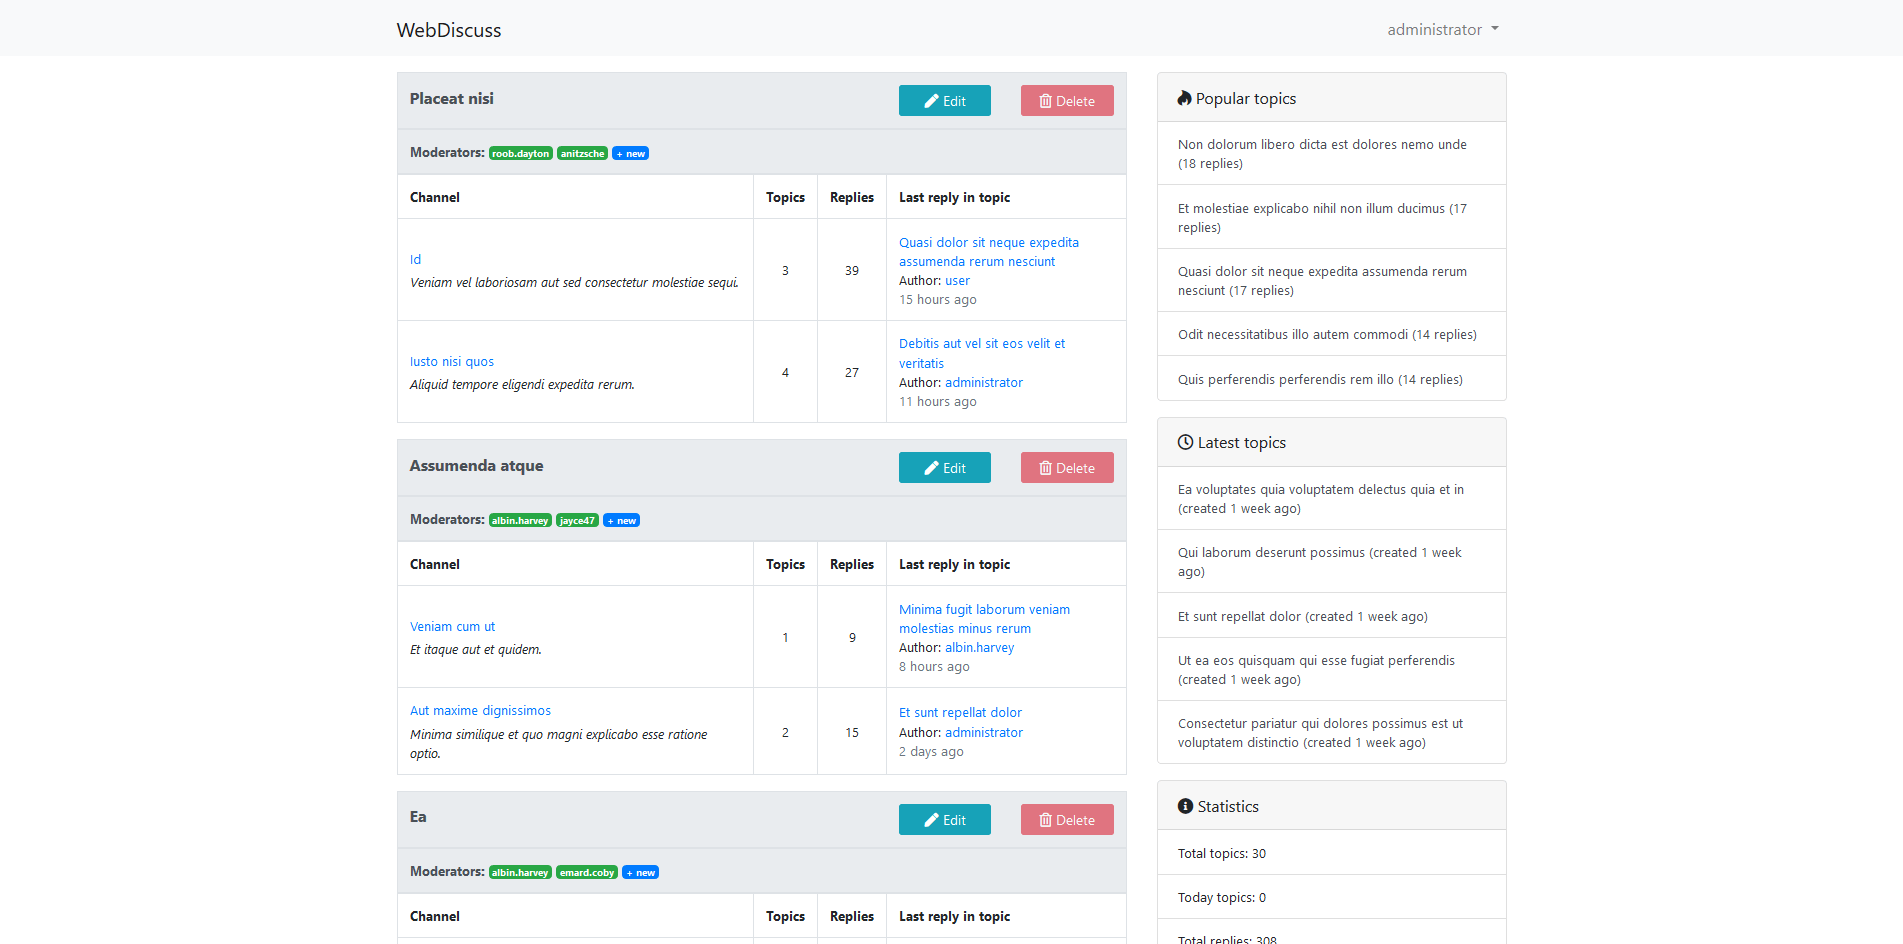
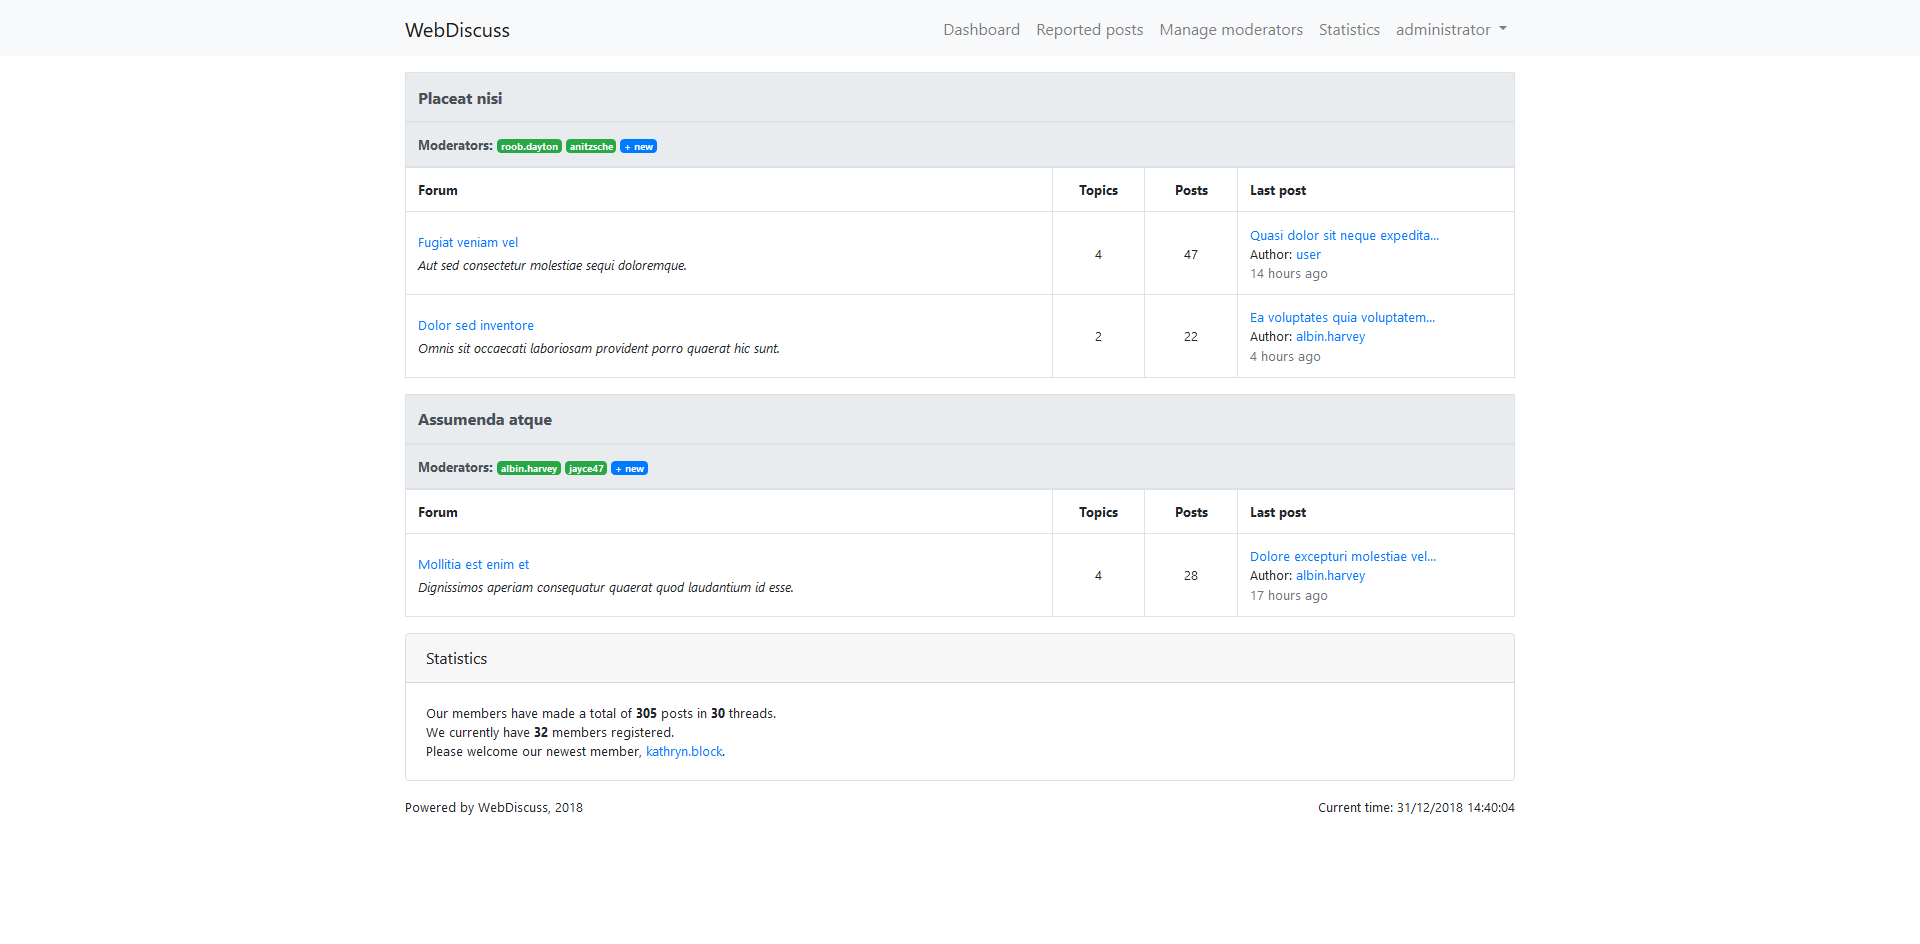
Homepage and stats improvements.

diff --git a/resources/views/categories/index.blade.php b/resources/views/categories/index.blade.php
@@ -2,22 +2,18 @@
 
 @section('content')
     <div class="row">
-        <div class="col-8">
+        <div class="col-12">
             @foreach ($categories as $category)
                 <table class="table table-bordered">
                     <thead class="thead-light">
                         <tr>
-                            <th colspan="4">
-                                {{ $category->name }}
-                            </th>
+                            <th colspan="4">{{ $category->name }}</th>
                         </tr>
                         <tr class="small">
                             <th colspan="4">
                                 Moderators:
                                 @foreach ($category->users as $user)
-                                    <a class="badge badge-success" href="{{ route('users.show', $user) }}">
-                                        {{ $user->name }}
-                                    </a>
+                                    <a class="badge badge-success" href="{{ route('users.show', $user) }}">{{ $user->name }}</a>
                                 @endforeach
                                 @hasrole('administrator')
                                     <a class="badge badge-primary" href="{{ route('moderators.create', $category) }}">+ new</a>
@@ -26,11 +22,11 @@
                         </tr>
                     </thead>
                     <tbody>
-                        <tr class="font-weight-bold small">
-                            <td class="col-6">Forum</td>
-                            <td class="col-1">Topics</td>
-                            <td class="col-1">Replies</td>
-                            <td class="col-4">Last reply in topic</td>
+                        <tr class="small">
+                            <th class="col-7">Forum</th>
+                            <th class="col-1 text-center">Topics</th>
+                            <th class="col-1 text-center">Posts</th>
+                            <th class="col-3">Last post</th>
                         </tr>
                         @if ($category->forums->isEmpty())
                             <tr class="small">
@@ -41,8 +37,9 @@
                                 <tr class="small">
                                     <td class="align-middle">
                                         <a href="{{ route('forums.show', $forum) }}">{{ $forum->name }}</a>
+
                                         @if ($forum->description)
-                                            <p class="mt-1 mb-0 font-italic">{{ $forum->description }}</p>
+                                            <div class="mt-1 font-italic">{{ $forum->description }}</div>
                                         @endif
                                     </td>
                                     <td class="text-center align-middle">{{ $forum->topics_count }}</td>
@@ -52,14 +49,21 @@
                                             —
                                         @else
                                             <div class="d-block">
-                                                <a href="{{ route('topics.show', $forum->replies->first()->topic) }}">{{ $forum->replies->first()->topic->title }}</a>
+                                                <a href="{{ route('topics.show', $forum->replies->first()->topic) }}">
+                                                    {{ str_limit($forum->replies->first()->topic->title, 30) }}
+                                                </a>
                                             </div>
                                             <div clas="d-block">
-                                                Author: <a href="{{ route('users.show', $forum->replies->first()->user) }}">{{ $forum->replies->first()->user->name }}</a>
+                                                Author:
+                                                <a href="{{ route('users.show', $forum->replies->first()->user) }}">
+                                                    {{ $forum->replies->first()->user->name }}
+                                                </a>
                                             </div>
                                             <div class="d-block">
                                                 <div class="text-muted">
-                                                    <time title="{{ $forum->replies->first()->created_at }}">{{ $forum->replies->first()->created_at->diffForHumans() }}</time>
+                                                    <time title="{{ $forum->replies->first()->created_at }}">
+                                                        {{ $forum->replies->first()->created_at->diffForHumans() }}
+                                                    </time>
                                                 </div>
                                             </div>
                                         @endif
@@ -70,65 +74,29 @@
                     </tbody>
                 </table>
             @endforeach
-        </div>
-        <div class="col-4">
+
             <div class="card mb-3">
-                <div class="card-header">
-                    <i class="fab fa-hotjar"></i> Popular topics
+                <div class="card-header">Statistics</div>
+                <div class="card-body small">
+                    <div class="d-block">
+                        Our members have made a total of <b>{{ number_format(cache('posts_count')) }}</b> posts in <b>{{ number_format(cache('topics_count')) }}</b> threads.
+                    </div>
+                    <div class="d-block">
+                        We currently have <b>{{ number_format(cache('users_count')) }}</b> members registered.
+                    </div>
+                    <div class="d-block">
+                        Please welcome our newest member, <a href="{{ route('users.show', cache('latest_user')) }}">{{ cache('latest_user')->name }}</a>.
+                    </div>
                 </div>
-                <ul class="list-group list-group-flush small">
-                    @foreach (cache('stats.popular_topics') as $topic)
-                        <a class="list-group-item list-group-item-action" href="{{ route('topics.show', $topic) }}">
-                            {{ $topic->title }} ({{ $topic->replies_count - 1 }} replies)
-                        </a>
-                    @endforeach
-                </ul>
             </div>
-            <div class="card mb-3">
-                <div class="card-header">
-                    <i class="far fa-clock"></i> Latest topics
+
+            <div class="d-flex justify-content-between small">
+                <div>
+                    Powered by WebDiscuss, 2018
                 </div>
-                <ul class="list-group list-group-flush small">
-                    @foreach (cache('stats.latest_topics') as $topic)
-                        <a class="list-group-item list-group-item-action" href="{{ route('topics.show', $topic) }}">
-                            {{ $topic->title }} (created <time title="{{ $topic->created_at }}">{{ $topic->created_at->diffForHumans() }}</time>)
-                        </a>
-                    @endforeach
-                </ul>
-            </div>
-            <div class="card">
-                <div class="card-header">
-                    <i class="fas fa-info-circle"></i> Statistics
+                <div>
+                    Current time: {{ date('d/m/Y H:i:s') }}
                 </div>
-                <ul class="list-group list-group-flush small">
-                    <li class="list-group-item">
-                        Total topics: {{ cache('stats.topics.total') }}
-                    </li>
-                    <li class="list-group-item">
-                        Today topics: {{ cache('stats.topics.today') }}
-                    </li>
-                    <li class="list-group-item">
-                        Total replies: {{ cache('stats.replies.total') }}
-                    </li>
-                    <li class="list-group-item">
-                        Today replies: {{ cache('stats.replies.today') }}
-                    </li>
-                    <li class="list-group-item">
-                        Total topics views: {{ cache('stats.topics.views') }}
-                    </li>
-                    <li class="list-group-item">
-                        Average age of users: {{ cache('stats.users.average_age') }}
-                    </li>
-                    <li class="list-group-item">
-                        Last registered: <a href="{{ route('users.show', cache('stats.users.last_registered')['slug']) }}">{{ cache('stats.users.last_registered')['name'] }}</a>
-                    </li>
-                    <li class="list-group-item">
-                        Last logged in: <a href="{{ route('users.show', cache('stats.users.last_logged_in')['slug']) }}">{{ cache('stats.users.last_logged_in')['name'] }}</a>
-                    </li>
-                    <li class="list-group-item">
-                        The most replies: {{ cache('stats.most_replies')['total'] }} were on: {{ cache('stats.most_replies')['date'] }}
-                    </li>
-                </ul>
             </div>
         </div>
     </div>

diff --git a/resources/views/partials/navbar.blade.php b/resources/views/partials/navbar.blade.php
@@ -16,6 +16,26 @@
                         <a class="nav-link" href="{{ route('register') }}">Register</a>
                     </li>
                 @else
+                    @hasrole('administrator|moderator')
+                        <li class="nav-item">
+                            <a class="nav-link" href="{{ route('dashboard.index') }}">Dashboard</a>
+                        </li>
+
+                        <li class="nav-item">
+                            <a class="nav-link" href="{{ route('report.index') }}">Reported posts</a>
+                        </li>
+                    @endhasrole
+
+                    @hasrole('administrator')
+                        <li class="nav-item">
+                            <a class="nav-link" href="{{ route('moderators.list') }}">Manage moderators</a>
+                        </li>
+                    @endhasrole
+
+                    <li class="nav-item">
+                        <a class="nav-link" href="{{ route('users.stats') }}">Statistics</a>
+                    </li>
+
                     <li class="nav-item dropdown">
                         <a id="navbarDropdown" class="nav-link dropdown-toggle" href="#" role="button" data-toggle="dropdown" aria-haspopup="true" aria-expanded="false">
                             {{ Auth::user()->name }} <span class="caret"></span>
@@ -24,22 +44,6 @@
                             <a class="dropdown-item" href="{{ route('users.show', Auth::user()) }}">
                                 My profile
                             </a>
-                            <a class="dropdown-item" href="{{ route('users.stats') }}">
-                                WebDiscuss statistics
-                            </a>
-                            @hasrole('administrator|moderator')
-                                <a class="dropdown-item" href="{{ route('dashboard.index') }}">
-                                    Dashboard
-                                </a>
-                                <a class="dropdown-item" href="{{ route('report.index') }}">
-                                    Reported posts
-                                </a>
-                            @endhasrole
-                            @hasrole('administrator')
-                                <a class="dropdown-item" href="{{ route('moderators.list') }}">
-                                    Manage moderators
-                                </a>
-                            @endhasrole
                             <a class="dropdown-item" href="{{ route('logout') }}" onclick="event.preventDefault(); document.getElementById('logout-form').submit();">
                                 Logout
                             </a>

diff --git a/app/Console/Commands/WebDiscussStats.php b/app/Console/Commands/WebDiscussStats.php
@@ -44,49 +44,17 @@ class WebDiscussStats extends Command
     public function handle()
     {
         $stats = [
-            'stats.topics.total' => function () {
+            'topics_count' => function () {
                 return Topic::count();
             },
-            'stats.topics.today' => function () {
-                return Topic::whereDate('created_at', Carbon::today())->count();
-            },
-            'stats.topics.views' => function () {
-                return ViewTracker::getViewsCountByType(Topic::class);
-            },
-            'stats.replies.total' => function () {
+            'posts_count' => function () {
                 return Reply::count();
             },
-            'stats.replies.today' => function () {
-                return Reply::whereDate('created_at', Carbon::today())->count();
-            },
-            'stats.users.total' => function () {
+            'users_count' => function () {
                 return User::count();
             },
-            'stats.users.average_age' => function () {
-                return round(User::selectRaw("TIMESTAMPDIFF(YEAR, DATE(date_of_birth), current_date) AS age")->get()->avg('age'));
-            },
-            'stats.users.last_registered' => function () {
+            'latest_user' => function () {
                 return User::latest()->first();
-            },
-            'stats.users.last_logged_in' => function () {
-                return User::latest('last_logged_in')->first();
-            },
-            'stats.most_replies' => function () {
-                $replies = Reply::select('created_at')->get()
-                    ->groupBy(function ($row) {
-                        return Carbon::parse($row->created_at)->format('d-m-Y');
-                    })->sort();
-
-                return [
-                    'date' => $replies->keys()->last(),
-                    'total' => $replies->last()->count()
-                ];
-            },
-            'stats.popular_topics' => function () {
-                return Topic::withCount('replies')->limit(config('webdiscuss.stats.popular_posts_limit'))->latest('replies_count')->get();
-            },
-            'stats.latest_topics' => function () {
-                return Topic::limit(config('webdiscuss.stats.latest_posts_limit'))->latest()->get();
             }
         ];
 
